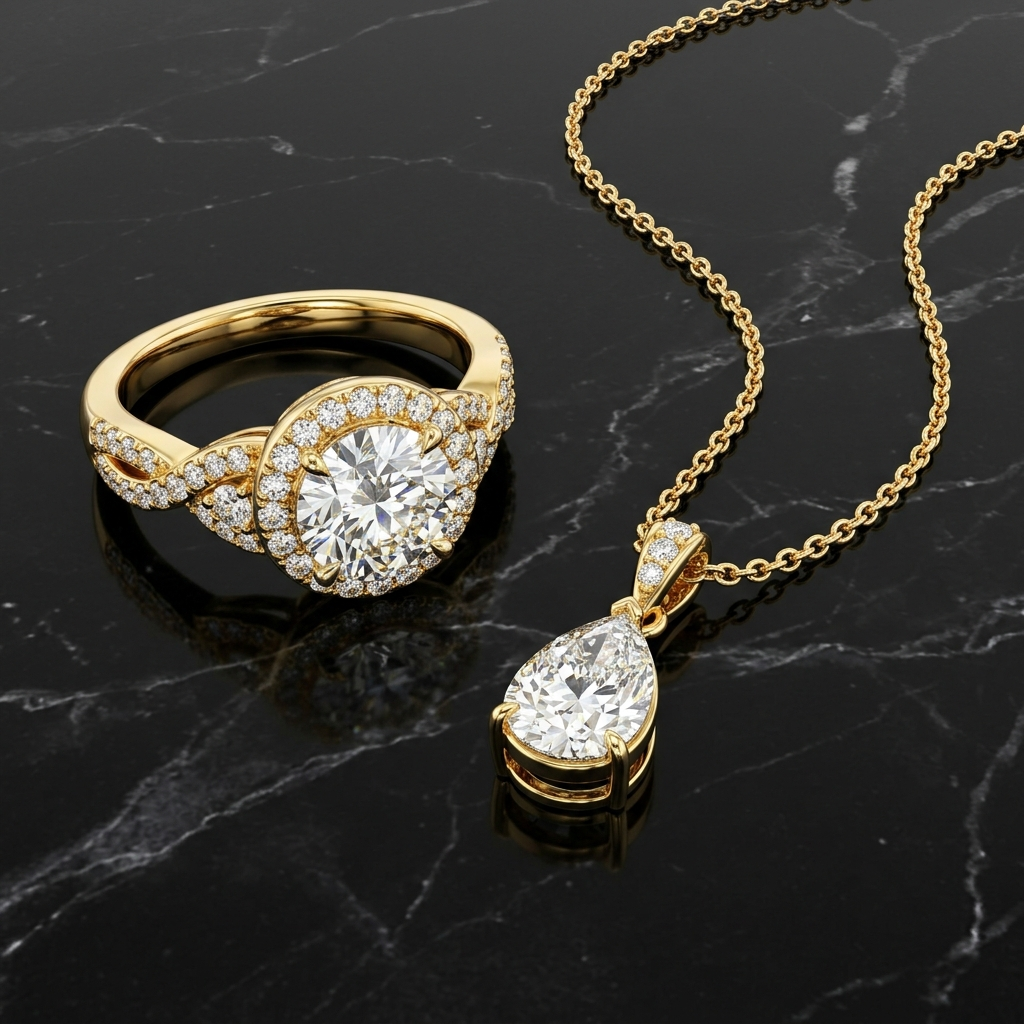
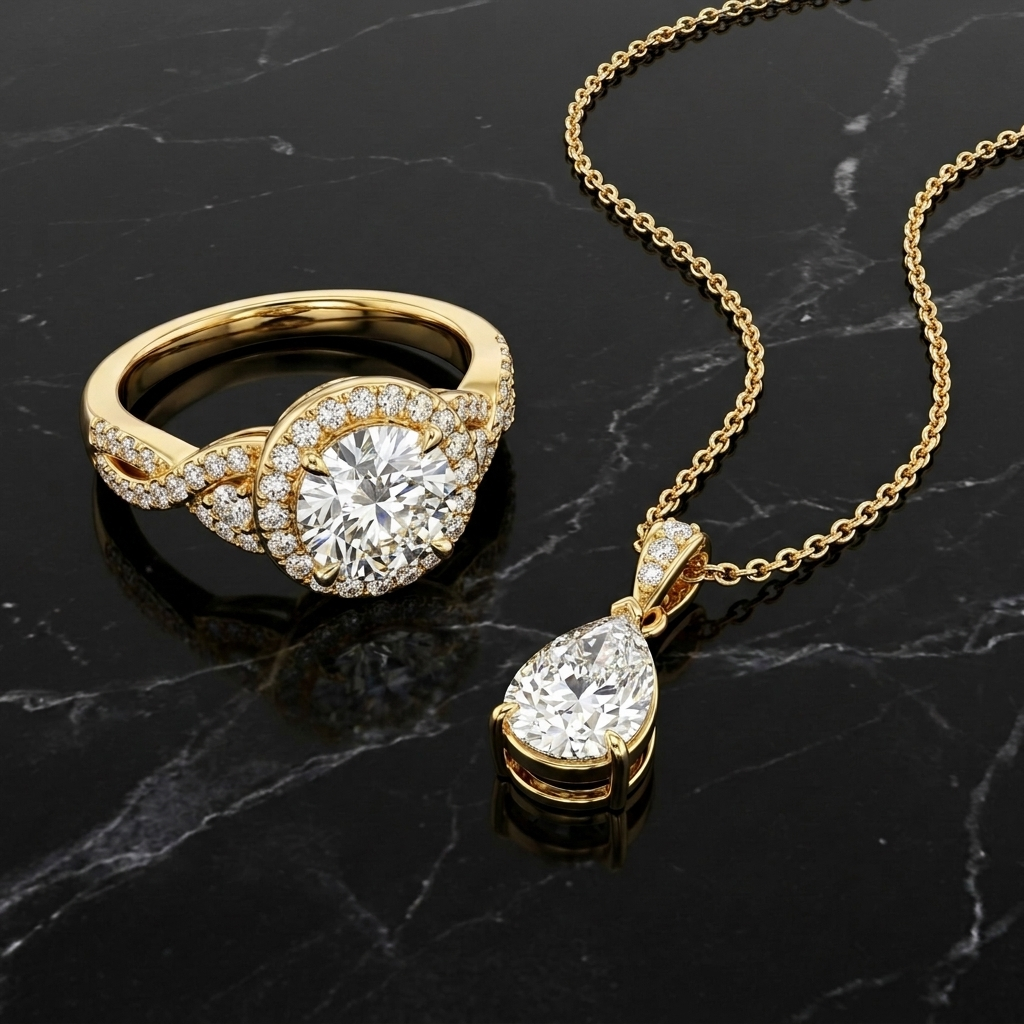
Hero: swap image 1s, overlay sombre, fix triangle noir scroll, supprime anneaux 3D

diff --git a/index.html b/index.html
@@ -63,9 +63,6 @@
   @keyframes typeBlink{50%{border-color:var(--gold);}}
   @media (min-width:981px){.typewriter{border-right-color:transparent!important;}}
 
-  /* ===== 3D BACKGROUND RINGS ===== */
-  #bg3d-canvas{position:fixed;inset:0;pointer-events:none;z-index:0;}
-
   /* ===== SPARKLE CURSOR ===== */
   #sparkle-canvas{position:fixed;inset:0;pointer-events:none;z-index:999;}
 
@@ -162,7 +159,7 @@
   .hero-bg img{
     width:100%;height:100%;object-fit:cover;
     transform:scale(1);
-    transition:transform .1s linear;
+    transition:transform .1s linear, opacity .8s ease;
     animation:kenBurns 12s ease-in-out infinite alternate;
   }
   @keyframes kenBurns{
@@ -172,8 +169,8 @@
   .hero-bg .overlay{
     position:absolute;inset:0;
     background:
-      linear-gradient(to bottom, rgba(10,9,6,.7) 0%, rgba(10,9,6,.45) 50%, rgba(10,9,6,.85) 100%),
-      radial-gradient(ellipse 70% 60% at 50% 40%, rgba(201,161,92,.12), transparent 70%);
+      linear-gradient(to bottom, rgba(10,9,6,.85) 0%, rgba(10,9,6,.6) 40%, rgba(10,9,6,.75) 70%, rgba(10,9,6,.92) 100%),
+      radial-gradient(ellipse 70% 60% at 50% 40%, rgba(201,161,92,.08), transparent 70%);
   }
   .hero-bg .glow{
     position:absolute;top:-20%;left:-10%;width:120%;height:80%;
@@ -828,7 +825,6 @@
 <body>
 
 <div class="grain"></div>
-<canvas id="bg3d-canvas"></canvas>
 <canvas id="ambient-canvas"></canvas>
 <canvas id="sparkle-canvas"></canvas>
 <canvas id="constellation-canvas"></canvas>
@@ -883,7 +879,7 @@
 <!-- ================= HERO ================= -->
 <section class="hero" id="hero">
   <div class="hero-bg">
-    <img src="hero-3d.png" alt="Collier en or Hafsa" id="heroImg">
+    <img src="hero-3d-clean.png" alt="Collier en or Hafsa" id="heroImg">
     <div class="overlay"></div>
     <div class="glow"></div>
   </div>
@@ -907,7 +903,7 @@
       </div>
     </div>
     <div class="scroll-indicator">
-      <svg viewBox="0 0 24 24"><path d="M12 5v14M5 12l7 7 7-7"/></svg>
+      <svg viewBox="0 0 24 24" fill="none"><path d="M12 5v14M5 12l7 7 7-7"/></svg>
       <span>Défiler</span>
     </div>
 </section>
@@ -1183,87 +1179,6 @@
 </div>
 
 <script>
-/* =============== 3D BACKGROUND RINGS =============== */
-const bgCanvas = document.getElementById('bg3d-canvas');
-const bgCtx = bgCanvas.getContext('2d');
-let bgW, bgH;
-function resizeBg(){
-  bgW = bgCanvas.width = window.innerWidth;
-  bgH = bgCanvas.height = window.innerHeight;
-}
-resizeBg();
-window.addEventListener('resize', resizeBg);
-
-let mouseX = -1000, mouseY = -1000;
-
-class Ring3D {
-  constructor(){
-    this.reset();
-  }
-  reset(){
-    this.radius = 40 + Math.random() * 120;
-    this.x = Math.random() * bgW;
-    this.y = Math.random() * bgH;
-    this.z = Math.random() * 600 - 300;
-    this.rotX = Math.random() * Math.PI * 2;
-    this.rotY = Math.random() * Math.PI * 2;
-    this.rotZ = Math.random() * Math.PI * 2;
-    this.speedX = (Math.random() - 0.5) * 0.02;
-    this.speedY = (Math.random() - 0.5) * 0.02;
-    this.speedZ = (Math.random() - 0.5) * 0.02;
-    this.thickness = 1 + Math.random() * 2;
-    this.opacity = 0.03 + Math.random() * 0.06;
-  }
-  update(){
-    this.rotX += this.speedX;
-    this.rotY += this.speedY;
-    this.rotZ += this.speedZ;
-    if(this.x < -200) this.x = bgW + 200;
-    if(this.x > bgW + 200) this.x = -200;
-    if(this.y < -200) this.y = bgH + 200;
-    if(this.y > bgH + 200) this.y = -200;
-  }
-  draw(ctx){
-    const perspective = 800;
-    const scale = perspective / (perspective + this.z);
-    const cx = this.x + (mouseX - this.x) * 0.01;
-    const cy = this.y + (mouseY - this.y) * 0.01;
-
-    ctx.save();
-    ctx.translate(cx, cy);
-    ctx.scale(scale, scale);
-    ctx.rotate(this.rotZ);
-    ctx.globalAlpha = this.opacity * (0.5 + scale * 0.5);
-    ctx.strokeStyle = '#c9a15c';
-    ctx.lineWidth = this.thickness;
-    ctx.beginPath();
-
-    const pts = 40;
-    for(let i=0; i<=pts; i++){
-      const theta = (i/pts) * Math.PI * 2;
-      const x = Math.cos(theta) * this.radius;
-      const y = Math.sin(theta) * this.radius;
-      const rX = x * Math.cos(this.rotX) - y * Math.sin(this.rotX);
-      const rY = x * Math.sin(this.rotX) * Math.sin(this.rotY) + y * Math.cos(this.rotX);
-      const rZ = x * Math.sin(this.rotX) * Math.cos(this.rotY) + y * Math.cos(this.rotX) * Math.sin(this.rotY);
-      if(i===0) ctx.moveTo(rX, rY);
-      else ctx.lineTo(rX, rY);
-    }
-    ctx.stroke();
-    ctx.restore();
-  }
-}
-
-const rings = [];
-for(let i=0; i<8; i++) rings.push(new Ring3D());
-
-function animateBg(){
-  bgCtx.clearRect(0,0,bgW,bgH);
-  rings.forEach(r=>{ r.update(); r.draw(bgCtx); });
-  requestAnimationFrame(animateBg);
-}
-animateBg();
-
 /* =============== AMBIENT GOLD DUST =============== */
 const ambCanvas = document.getElementById('ambient-canvas');
 const ambCtx = ambCanvas.getContext('2d');
@@ -1306,6 +1221,8 @@ function animateDust(){
   requestAnimationFrame(animateDust);
 }
 animateDust();
+
+let mouseX = -1000, mouseY = -1000;
 
 /* =============== SPARKLE CURSOR =============== */
 const spCanvas = document.getElementById('sparkle-canvas');
@@ -1506,6 +1423,22 @@ window.addEventListener('deviceorientation', e=>{
     heroImg.style.transform = `scale(1.06) translateY(${scrollOffset}px) translate(${tiltX}px,${tiltY}px)`;
   }
   requestAnimationFrame(heroTilt);
+})();
+
+/* =============== HERO IMAGE SWAP =============== */
+(function(){
+  const imgClean = new Image();
+  imgClean.src = 'hero-3d-clean.png';
+  setTimeout(() => {
+    const hImg = document.getElementById('heroImg');
+    if(hImg && hImg.src.indexOf('hero-3d-clean') === -1){
+      hImg.style.opacity = '0';
+      setTimeout(() => {
+        hImg.src = 'hero-3d-clean.png';
+        hImg.style.opacity = '1';
+      }, 500);
+    }
+  }, 1000);
 })();
 
 /* =============== DATA =============== */